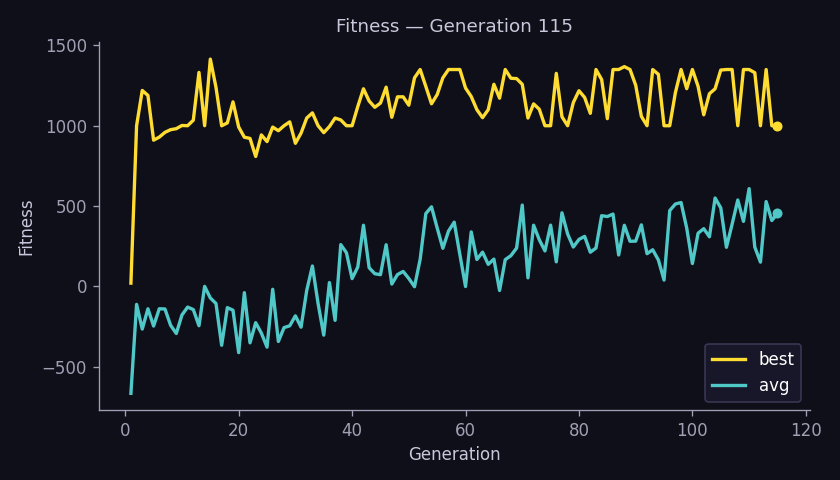
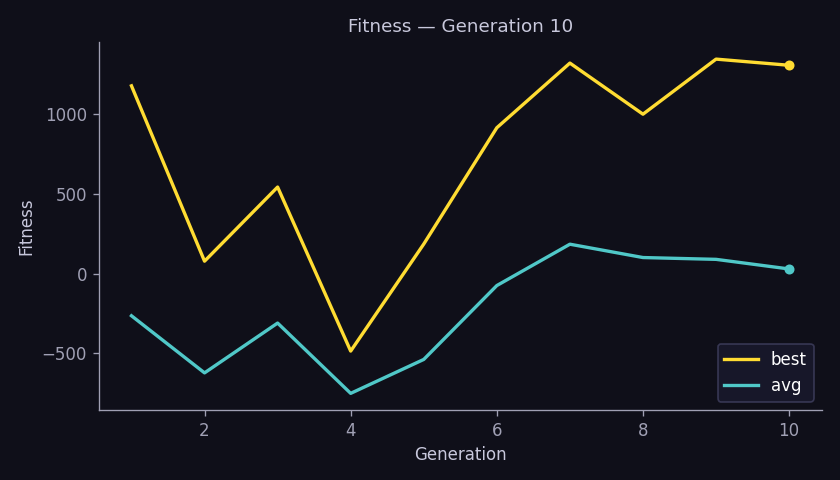
Added obstacle collision with AABB logic + added a visual indicator for alpha agent

diff --git a/visualization/visualizer.py b/visualization/visualizer.py
@@ -56,6 +56,17 @@ class Visualizer:
     def draw(self):
         self.screen.fill(BG_COLOR)
 
+        # finding the "alpha"
+        best_agent = None
+        max_fitness = -float('inf')
+        
+        if self.arena.agents:
+            for agent in self.arena.agents:
+                f = agent.fitness()
+                if f > max_fitness:
+                    max_fitness = f
+                    best_agent = agent
+
         # Obstacles
         for obs in self.arena.obstacles:
             rect = pygame.Rect(obs.x, obs.y, obs.width, obs.height)
@@ -74,9 +85,23 @@ class Visualizer:
             bar_fill_color = (0, 200, 0) # Green
 
             cx, cy = int(agent.x), int(agent.y)
-            pygame.draw.circle(self.screen, AGENT_COLOR, (cx, cy), AGENT_RADIUS)
+            
+            # Draw the alpha ring and determine agent color
+            if agent == best_agent:
+                # Draw gold ring first so it is behind the health bar but visible around the agent
+                pygame.draw.circle(self.screen, (255, 215, 0), (cx, cy), AGENT_RADIUS + 4, 3)
+                current_agent_color = (255, 255, 100)
+            else:
+                current_agent_color = AGENT_COLOR
+
+            # Draw agent body
+            pygame.draw.circle(self.screen, current_agent_color, (cx, cy), AGENT_RADIUS)
             pygame.draw.circle(self.screen, AGENT_OUTLINE, (cx, cy), AGENT_RADIUS, 1)
+            
+            # Draw health bar background
             pygame.draw.rect(self.screen, bar_color, (bar_x, bar_y, bar_width, bar_height))
+            
+            # Draw ID label
             label = self.small_font.render(str(agent.id), True, (20, 20, 20))
             self.screen.blit(label, (cx - 4, cy - 5))
 
@@ -86,19 +111,27 @@ class Visualizer:
 
         # HUD
         hud_y = self.arena.height + 8
-        hud = f"Step: {self.arena.step_count}   Agents: {len(self.arena.agents)}    Gen: {Arena._gen_count}"
+        best_fit_val = f"{max_fitness:.1f}" if best_agent else "0.0"
+        hud = f"Step: {self.arena.step_count}   Agents: {len(self.arena.agents)}    Gen: {Arena._gen_count}    Best Fit: {best_fit_val}"
         self.screen.blit(self.font.render(hud, True, HUD_COLOR), (10, hud_y))
 
         pygame.display.flip()
         self.clock.tick(self.fps)
 
     def close(self):
-        max_fitness_score = 0.0
+        max_fitness_score = -float('inf')
         max_score_agent = None
-        for agent in self.arena.agents:
-            curr_fitness = agent.fitness()
-            if curr_fitness > max_fitness_score:
-                max_fitness_score = curr_fitness
-                max_score_agent = agent
-        print(f"Max fitness score: {max_fitness_score} by Agent id: {max_score_agent.id}")
+        
+        if self.arena.agents:
+            for agent in self.arena.agents:
+                curr_fitness = agent.fitness()
+                if curr_fitness > max_fitness_score:
+                    max_fitness_score = curr_fitness
+                    max_score_agent = agent
+            
+            if max_score_agent:
+                print(f"Max fitness score: {max_fitness_score:.2f} by Agent id: {max_score_agent.id}")
+        else:
+            print("No agents remaining in the arena.")
+            
         pygame.quit()

diff --git a/simulation/agent.py b/simulation/agent.py
@@ -182,6 +182,43 @@ class Agent:
             self.steps_alive * w_steps - 
             self.steps_near_wall * w_near_wall
             )
+    
+    def handle_obstacles(self, obstacles: list):
+        """
+        Resolves collisions between the agent (circle) and arena obstacles (rectangles).
+        Uses AABB vs circle detection. finds closest point on rectangle to agent center,
+        checks overlap, pushes agent out and reflects velocity along the collision normal.
+        """
+        for obs in obstacles:
+            # Find closest point on rectangle to agent center
+            closest_x = max(obs.x, min(self.x, obs.x + obs.width))
+            closest_y = max(obs.y, min(self.y, obs.y + obs.height))
+
+            # Vector from closest point to agent center
+            dx = self.x - closest_x
+            dy = self.y - closest_y
+            distance = np.sqrt(dx**2 + dy**2)
+
+            if distance < AGENT_RADIUS:
+                # Edge case: agent center is fully inside obstacle
+                if distance == 0:
+                    self.y -= AGENT_RADIUS
+                    self.vy *= -1
+                    continue
+
+                # Collision normal: direction to push agent out
+                nx = dx / distance
+                ny = dy / distance
+
+                # Push agent out so it sits exactly on the surface
+                self.x = closest_x + nx * AGENT_RADIUS
+                self.y = closest_y + ny * AGENT_RADIUS
+
+                # Reflect velocity along the normal
+                dot = self.vx * nx + self.vy * ny
+                self.vx -= 2 * dot * nx
+                self.vy -= 2 * dot * ny
+        
 
 
     def __repr__(self):

diff --git a/simulation/arena.py b/simulation/arena.py
@@ -62,6 +62,7 @@ class Arena:
         for agent in self.agents:
             agent.decide(self.agents, self.width, self.height)
             agent.move(self.width, self.height)
+            agent.handle_obstacles(self.obstacles)
 
         # Adding steps_alive to track fitness score
         for agent in self.agents:
